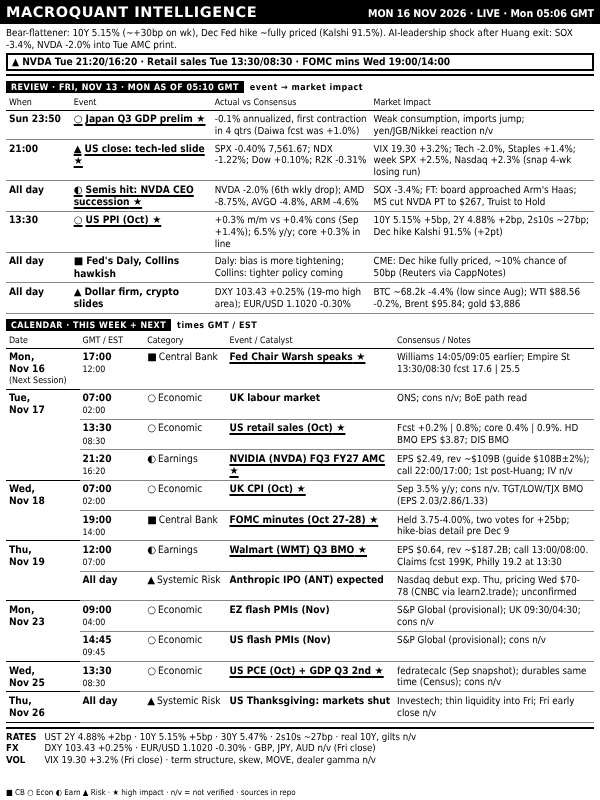
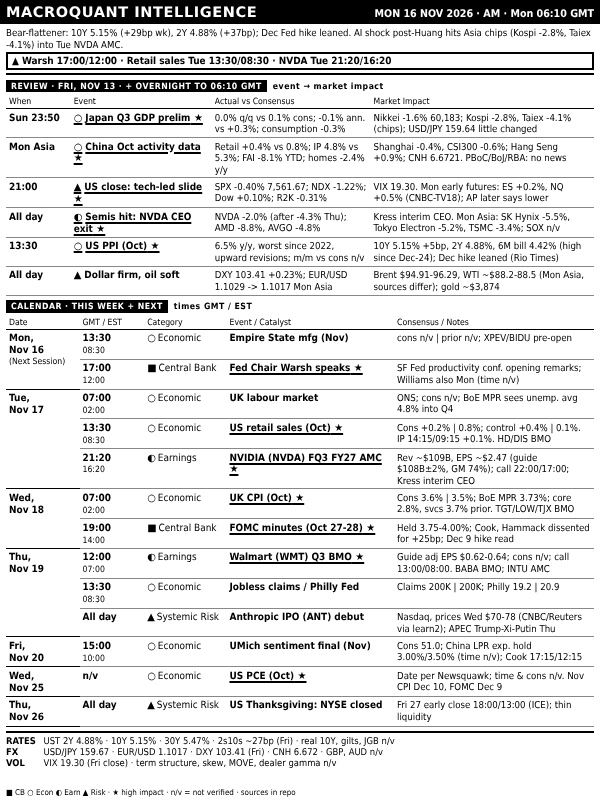
dashboard: MON 16 NOV 2026 AM
Claude-Session: https://claude.ai/code/session_016SJqa3bJnJWeqD8Gpawq6w

Changed region(s): [[0.0, 0.0, 0.99, 0.9688], [0.0, 0.5938, 0.09, 0.7188]]

diff --git a/out/dashboard.html b/out/dashboard.html
@@ -38,12 +38,12 @@ table.bd{border-collapse:collapse;width:100%;table-layout:fixed;margin-top:1px}
 </style></head><body>
 <div id="root">
  <div class="hdr"><span class="t">MACROQUANT INTELLIGENCE</span>
-  <span class="r">MON 16 NOV 2026 · LIVE · Mon 05:06 GMT</span></div>
- <div class="ban"><div class="rg">Bear-flattener: 10Y 5.15% (~+30bp on wk), Dec Fed hike ~fully priced (Kalshi 91.5%). AI-leadership shock after Huang exit: SOX -3.4%, NVDA -2.0% into Tue AMC print.</div><div class="al">▲ NVDA Tue 21:20/16:20 · Retail sales Tue 13:30/08:30 · FOMC mins Wed 19:00/14:00</div></div>
- <div class="sl"><span>REVIEW · FRI, NOV 13 · MON AS OF 05:10 GMT</span>event → market impact</div><table class="bd rv"><colgroup><col style="width:11%"><col style="width:24%"><col style="width:27%"><col></colgroup><tr><th>When</th><th>Event</th><th>Actual vs Consensus</th><th>Market Impact</th></tr><tr class="h"><td class="tm"><b>Sun 23:50</b></td><td class="ev"><i>○</i>Japan Q3 GDP prelim</td><td class="ac">-0.1% annualized, first contraction in 4 qtrs (Daiwa fcst was +1.0%)</td><td class="nt">Weak consumption, imports jump; yen/JGB/Nikkei reaction n/v</td></tr><tr class="h"><td class="tm"><b>21:00</b></td><td class="ev"><i>▲</i>US close: tech-led slide</td><td class="ac">SPX -0.40% 7,561.67; NDX -1.22%; Dow +0.10%; R2K -0.31%</td><td class="nt">VIX 19.30 +3.2%; Tech -2.0%, Staples +1.4%; week SPX +2.5%, Nasdaq +2.3% (snap 4-wk losing run)</td></tr><tr class="h"><td class="tm"><b>All day</b></td><td class="ev"><i>◐</i>Semis hit: NVDA CEO succession</td><td class="ac">NVDA -2.0% (6th wkly drop); AMD -8.75%, AVGO -4.8%, ARM -4.6%</td><td class="nt">SOX -3.4%; FT: board approached Arm's Haas; MS cut NVDA PT to $267, Truist to Hold</td></tr><tr class="h"><td class="tm"><b>13:30</b></td><td class="ev"><i>○</i>US PPI (Oct)</td><td class="ac">+0.3% m/m vs +0.4% cons (Sep +1.4%); 6.5% y/y; core +0.3% in line</td><td class="nt">10Y 5.15% +5bp, 2Y 4.88% +2bp, 2s10s ~27bp; Dec hike Kalshi 91.5% (+2pt)</td></tr><tr><td class="tm"><b>All day</b></td><td class="ev"><i>■</i>Fed's Daly, Collins hawkish</td><td class="ac">Daly: bias is more tightening; Collins: tighter policy coming</td><td class="nt">CME: Dec hike fully priced, ~10% chance of 50bp (Reuters via CappNotes)</td></tr><tr><td class="tm"><b>All day</b></td><td class="ev"><i>▲</i>Dollar firm, crypto slides</td><td class="ac">DXY 103.43 +0.25% (19-mo high area); EUR/USD 1.1020 -0.30%</td><td class="nt">BTC ~68.2k -4.4% (low since Aug); WTI $88.56 -0.2%, Brent $95.84; gold $3,886</td></tr></table>
+  <span class="r">MON 16 NOV 2026 · AM · Mon 06:10 GMT</span></div>
+ <div class="ban"><div class="rg">Bear-flattener: 10Y 5.15% (+29bp wk), 2Y 4.88% (+37bp); Dec Fed hike leaned. AI shock post-Huang hits Asia chips (Kospi -2.8%, Taiex -4.1%) into Tue NVDA AMC.</div><div class="al">▲ Warsh 17:00/12:00 · Retail sales Tue 13:30/08:30 · NVDA Tue 21:20/16:20</div></div>
+ <div class="sl"><span>REVIEW · FRI, NOV 13 · + OVERNIGHT TO 06:10 GMT</span>event → market impact</div><table class="bd rv"><colgroup><col style="width:11%"><col style="width:24%"><col style="width:27%"><col></colgroup><tr><th>When</th><th>Event</th><th>Actual vs Consensus</th><th>Market Impact</th></tr><tr class="h"><td class="tm"><b>Sun 23:50</b></td><td class="ev"><i>○</i>Japan Q3 GDP prelim</td><td class="ac">0.0% q/q vs 0.1% cons; -0.1% ann. vs +0.3%; consumption -0.3%</td><td class="nt">Nikkei -1.6% 60,183; Kospi -2.8%, Taiex -4.1% (chips); USD/JPY 159.64 little changed</td></tr><tr class="h"><td class="tm"><b>Mon Asia</b></td><td class="ev"><i>○</i>China Oct activity data</td><td class="ac">Retail +0.4% vs 0.8%; IP 4.8% vs 5.3%; FAI -8.1% YTD; homes -2.4% y/y</td><td class="nt">Shanghai -0.4%, CSI300 -0.6%; Hang Seng +0.9%; CNH 6.6721. PBoC/BoJ/RBA: no news</td></tr><tr class="h"><td class="tm"><b>21:00</b></td><td class="ev"><i>▲</i>US close: tech-led slide</td><td class="ac">SPX -0.40% 7,561.67; NDX -1.22%; Dow +0.10%; R2K -0.31%</td><td class="nt">VIX 19.30. Mon early futures: ES +0.2%, NQ +0.5% (CNBC-TV18); AP later says lower</td></tr><tr class="h"><td class="tm"><b>All day</b></td><td class="ev"><i>◐</i>Semis hit: NVDA CEO exit</td><td class="ac">NVDA -2.0% (after -4.3% Thu); AMD -8.8%, AVGO -4.8%</td><td class="nt">Kress interim CEO. Mon Asia: SK Hynix -5.5%, Tokyo Electron -5.2%, TSMC -3.4%; SOX n/v</td></tr><tr class="h"><td class="tm"><b>13:30</b></td><td class="ev"><i>○</i>US PPI (Oct)</td><td class="ac">6.5% y/y, worst since 2022, upward revisions; m/m vs cons n/v</td><td class="nt">10Y 5.15% +5bp, 2Y 4.88%, 6M bill 4.42% (high since Dec-24); Dec hike leaned (Rio Times)</td></tr><tr><td class="tm"><b>All day</b></td><td class="ev"><i>▲</i>Dollar firm, oil soft</td><td class="ac">DXY 103.41 +0.23%; EUR/USD 1.1029 -&gt; 1.1017 Mon Asia</td><td class="nt">Brent $94.91-96.29, WTI ~$88.2-88.5 (Mon Asia, sources differ); gold ~$3,874</td></tr></table>
  <div class="sl"><span>CALENDAR · THIS WEEK + NEXT</span>times GMT / EST</div>
- <table class="bd"><colgroup><col style="width:12.5%"><col style="width:11%"><col style="width:14%"><col style="width:28.5%"><col></colgroup><tr><th>Date</th><th>GMT / EST</th><th>Category</th><th>Event / Catalyst</th><th>Consensus / Notes</th></tr><tr class="g0 h"><td class="dt" rowspan="1">Mon,<br>Nov&nbsp;16<span class="tg">(Next Session)</span></td><td class="tm"><b>17:00</b><span>12:00</span></td><td class="ct"><i>■</i>Central Bank</td><td class="ev">Fed Chair Warsh speaks</td><td class="nt">Williams 14:05/09:05 earlier; Empire St 13:30/08:30 fcst 17.6 | 25.5</td></tr><tr class="g0"><td class="dt" rowspan="3">Tue,<br>Nov&nbsp;17</td><td class="tm"><b>07:00</b><span>02:00</span></td><td class="ct"><i>○</i>Economic</td><td class="ev">UK labour market</td><td class="nt">ONS; cons n/v; BoE path read</td></tr><tr class="h"><td class="tm"><b>13:30</b><span>08:30</span></td><td class="ct"><i>○</i>Economic</td><td class="ev">US retail sales (Oct)</td><td class="nt">Fcst +0.2% | 0.8%; core 0.4% | 0.9%. HD BMO EPS $3.87; DIS BMO</td></tr><tr class="h"><td class="tm"><b>21:20</b><span>16:20</span></td><td class="ct"><i>◐</i>Earnings</td><td class="ev">NVIDIA (NVDA) FQ3 FY27 AMC</td><td class="nt">EPS $2.49, rev ~$109B (guide $108B±2%); call 22:00/17:00; 1st post-Huang; IV n/v</td></tr><tr class="g0 h"><td class="dt" rowspan="2">Wed,<br>Nov&nbsp;18</td><td class="tm"><b>07:00</b><span>02:00</span></td><td class="ct"><i>○</i>Economic</td><td class="ev">UK CPI (Oct)</td><td class="nt">Sep 3.5% y/y; cons n/v. TGT/LOW/TJX BMO (EPS 2.03/2.86/1.33)</td></tr><tr class="h"><td class="tm"><b>19:00</b><span>14:00</span></td><td class="ct"><i>■</i>Central Bank</td><td class="ev">FOMC minutes (Oct 27-28)</td><td class="nt">Held 3.75-4.00%, two votes for +25bp; hike-bias detail pre Dec 9</td></tr><tr class="g0 h"><td class="dt" rowspan="2">Thu,<br>Nov&nbsp;19</td><td class="tm"><b>12:00</b><span>07:00</span></td><td class="ct"><i>◐</i>Earnings</td><td class="ev">Walmart (WMT) Q3 BMO</td><td class="nt">EPS $0.64, rev ~$187.2B; call 13:00/08:00. Claims fcst 199K, Philly 19.2 at 13:30</td></tr><tr class=""><td class="tm"><b>All day</b></td><td class="ct"><i>▲</i>Systemic Risk</td><td class="ev">Anthropic IPO (ANT) expected</td><td class="nt">Nasdaq debut exp. Thu, pricing Wed $70-78 (CNBC via learn2.trade); unconfirmed</td></tr><tr class="g0"><td class="dt" rowspan="2">Mon,<br>Nov&nbsp;23</td><td class="tm"><b>09:00</b><span>04:00</span></td><td class="ct"><i>○</i>Economic</td><td class="ev">EZ flash PMIs (Nov)</td><td class="nt">S&amp;P Global (provisional); UK 09:30/04:30; cons n/v</td></tr><tr class=""><td class="tm"><b>14:45</b><span>09:45</span></td><td class="ct"><i>○</i>Economic</td><td class="ev">US flash PMIs (Nov)</td><td class="nt">S&amp;P Global (provisional); cons n/v</td></tr><tr class="g0 h"><td class="dt" rowspan="1">Wed,<br>Nov&nbsp;25</td><td class="tm"><b>13:30</b><span>08:30</span></td><td class="ct"><i>○</i>Economic</td><td class="ev">US PCE (Oct) + GDP Q3 2nd</td><td class="nt">fedratecalc (Sep snapshot); durables same time (Census); cons n/v</td></tr><tr class="g0"><td class="dt" rowspan="1">Thu,<br>Nov&nbsp;26</td><td class="tm"><b>All day</b></td><td class="ct"><i>▲</i>Systemic Risk</td><td class="ev">US Thanksgiving: markets shut</td><td class="nt">Investech; thin liquidity into Fri; Fri early close n/v</td></tr></table>
- <div class="lv"><div><b>RATES</b>UST 2Y 4.88% +2bp · 10Y 5.15% +5bp · 30Y 5.47% · 2s10s ~27bp · real 10Y, gilts n/v</div><div><b>FX</b>DXY 103.43 +0.25% · EUR/USD 1.1020 -0.30% · GBP, JPY, AUD n/v (Fri close)</div><div><b>VOL</b>VIX 19.30 +3.2% (Fri close) · term structure, skew, MOVE, dealer gamma n/v</div></div>
+ <table class="bd"><colgroup><col style="width:12.5%"><col style="width:11%"><col style="width:14%"><col style="width:28.5%"><col></colgroup><tr><th>Date</th><th>GMT / EST</th><th>Category</th><th>Event / Catalyst</th><th>Consensus / Notes</th></tr><tr class="g0"><td class="dt" rowspan="2">Mon,<br>Nov&nbsp;16<span class="tg">(Next Session)</span></td><td class="tm"><b>13:30</b><span>08:30</span></td><td class="ct"><i>○</i>Economic</td><td class="ev">Empire State mfg (Nov)</td><td class="nt">cons n/v | prior n/v; XPEV/BIDU pre-open</td></tr><tr class="h"><td class="tm"><b>17:00</b><span>12:00</span></td><td class="ct"><i>■</i>Central Bank</td><td class="ev">Fed Chair Warsh speaks</td><td class="nt">SF Fed productivity conf. opening remarks; Williams also Mon (time n/v)</td></tr><tr class="g0"><td class="dt" rowspan="3">Tue,<br>Nov&nbsp;17</td><td class="tm"><b>07:00</b><span>02:00</span></td><td class="ct"><i>○</i>Economic</td><td class="ev">UK labour market</td><td class="nt">ONS; cons n/v; BoE MPR sees unemp. avg 4.8% into Q4</td></tr><tr class="h"><td class="tm"><b>13:30</b><span>08:30</span></td><td class="ct"><i>○</i>Economic</td><td class="ev">US retail sales (Oct)</td><td class="nt">Cons +0.2% | 0.8%; control +0.4% | 0.1%. IP 14:15/09:15 +0.1%. HD/DIS BMO</td></tr><tr class="h"><td class="tm"><b>21:20</b><span>16:20</span></td><td class="ct"><i>◐</i>Earnings</td><td class="ev">NVIDIA (NVDA) FQ3 FY27 AMC</td><td class="nt">Rev ~$109B, EPS ~$2.47 (guide $108B±2%, GM 74%); call 22:00/17:00; Kress interim CEO</td></tr><tr class="g0 h"><td class="dt" rowspan="2">Wed,<br>Nov&nbsp;18</td><td class="tm"><b>07:00</b><span>02:00</span></td><td class="ct"><i>○</i>Economic</td><td class="ev">UK CPI (Oct)</td><td class="nt">Cons 3.6% | 3.5%; BoE MPR 3.73%; core 2.8%, svcs 3.7% prior. TGT/LOW/TJX BMO</td></tr><tr class="h"><td class="tm"><b>19:00</b><span>14:00</span></td><td class="ct"><i>■</i>Central Bank</td><td class="ev">FOMC minutes (Oct 27-28)</td><td class="nt">Held 3.75-4.00%; Cook, Hammack dissented for +25bp; Dec 9 hike read</td></tr><tr class="g0 h"><td class="dt" rowspan="3">Thu,<br>Nov&nbsp;19</td><td class="tm"><b>12:00</b><span>07:00</span></td><td class="ct"><i>◐</i>Earnings</td><td class="ev">Walmart (WMT) Q3 BMO</td><td class="nt">Guide adj EPS $0.62-0.64; cons n/v; call 13:00/08:00. BABA BMO; INTU AMC</td></tr><tr class=""><td class="tm"><b>13:30</b><span>08:30</span></td><td class="ct"><i>○</i>Economic</td><td class="ev">Jobless claims / Philly Fed</td><td class="nt">Claims 200K | 200K; Philly 19.2 | 20.9</td></tr><tr class=""><td class="tm"><b>All day</b></td><td class="ct"><i>▲</i>Systemic Risk</td><td class="ev">Anthropic IPO (ANT) debut</td><td class="nt">Nasdaq, prices Wed $70-78 (CNBC/Reuters via learn2); APEC Trump-Xi-Putin Thu</td></tr><tr class="g0"><td class="dt" rowspan="1">Fri,<br>Nov&nbsp;20</td><td class="tm"><b>15:00</b><span>10:00</span></td><td class="ct"><i>○</i>Economic</td><td class="ev">UMich sentiment final (Nov)</td><td class="nt">Cons 51.0; China LPR exp. hold 3.00%/3.50% (time n/v); Cook 17:15/12:15</td></tr><tr class="g0 h"><td class="dt" rowspan="1">Wed,<br>Nov&nbsp;25</td><td class="tm"><b>n/v</b></td><td class="ct"><i>○</i>Economic</td><td class="ev">US PCE (Oct)</td><td class="nt">Date per Newsquawk; time &amp; cons n/v. Nov CPI Dec 10, FOMC Dec 9</td></tr><tr class="g0"><td class="dt" rowspan="1">Thu,<br>Nov&nbsp;26</td><td class="tm"><b>All day</b></td><td class="ct"><i>▲</i>Systemic Risk</td><td class="ev">US Thanksgiving: NYSE closed</td><td class="nt">Fri 27 early close 18:00/13:00 (ICE); thin liquidity</td></tr></table>
+ <div class="lv"><div><b>RATES</b>UST 2Y 4.88% · 10Y 5.15% · 30Y 5.47% · 2s10s ~27bp (Fri) · real 10Y, gilts, JGB n/v</div><div><b>FX</b>USD/JPY 159.67 · EUR/USD 1.1017 · DXY 103.41 (Fri) · CNH 6.672 · GBP, AUD n/v</div><div><b>VOL</b>VIX 19.30 (Fri close) · term structure, skew, MOVE, dealer gamma n/v</div></div>
 </div>
 <div class="foot">■ CB ○ Econ ◐ Earn ▲ Risk · ★ high impact · n/v = not verified · sources in repo</div>
 </body></html>
